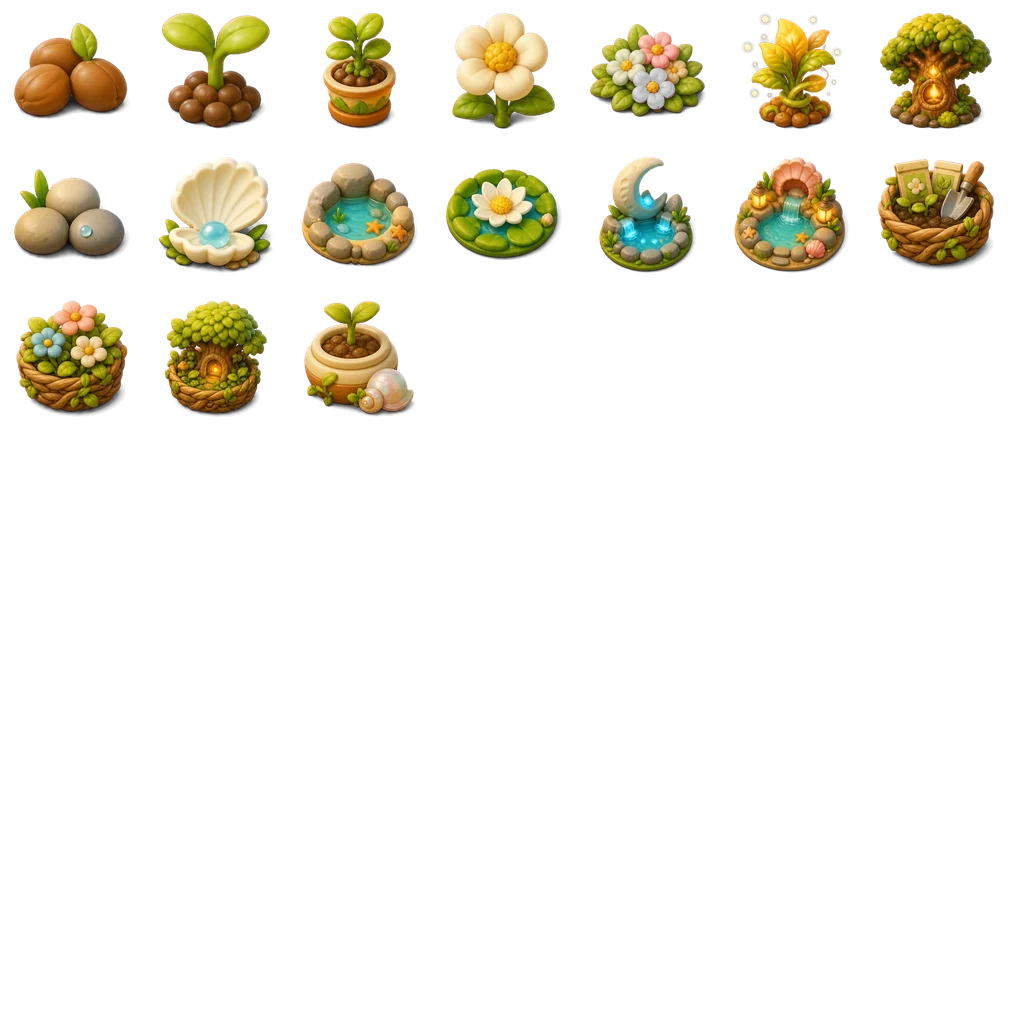
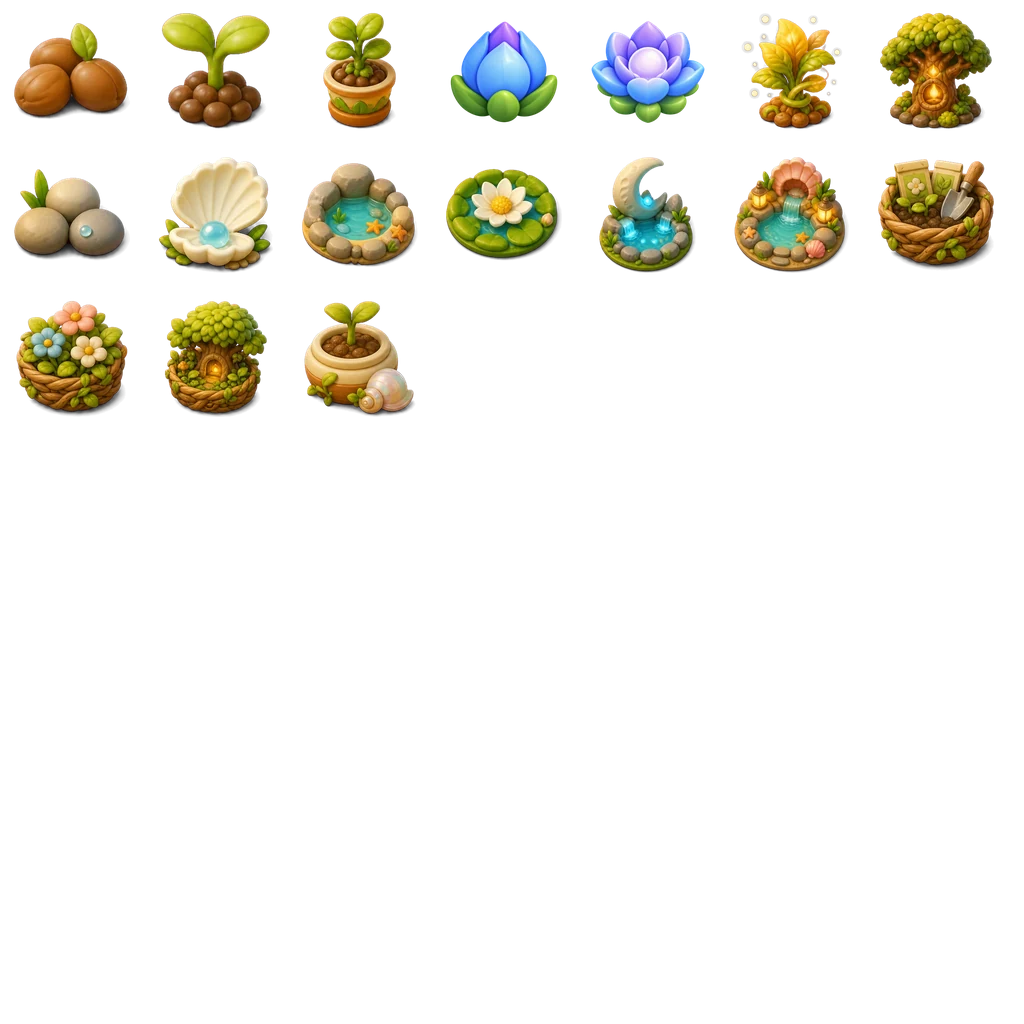
Refresh Mossprout flower tiers and merge dock

Changed region(s): [[0.4375, 0.0, 0.6875, 0.125]]

diff --git a/apps/katchimeras/components/katchadeck/world/kingdom-opening-merge-dock.tsx b/apps/katchimeras/components/katchadeck/world/kingdom-opening-merge-dock.tsx
@@ -273,7 +273,7 @@ const styles = StyleSheet.create({
   dock: { position: 'absolute', left: 0, right: 0, bottom: 0, zIndex: 60, alignItems: 'center', gap: 10 },
   bar: {
     gap: 5, paddingHorizontal: 14, paddingVertical: 9, borderRadius: 16, overflow: 'visible',
-    backgroundColor: 'rgba(255,255,255,0.82)', borderWidth: 1.5, borderColor: 'rgba(255,255,255,0.95)',
+    backgroundColor: '#F4F9FD', borderWidth: 1.5, borderColor: '#FFFFFF',
     boxShadow: '0 4px 14px rgba(20,40,60,0.16)',
   },
   barHalo: { borderRadius: 16, backgroundColor: 'rgba(143,211,255,0.22)', boxShadow: `0 0 26px ${GLOW_COLOR}` },
